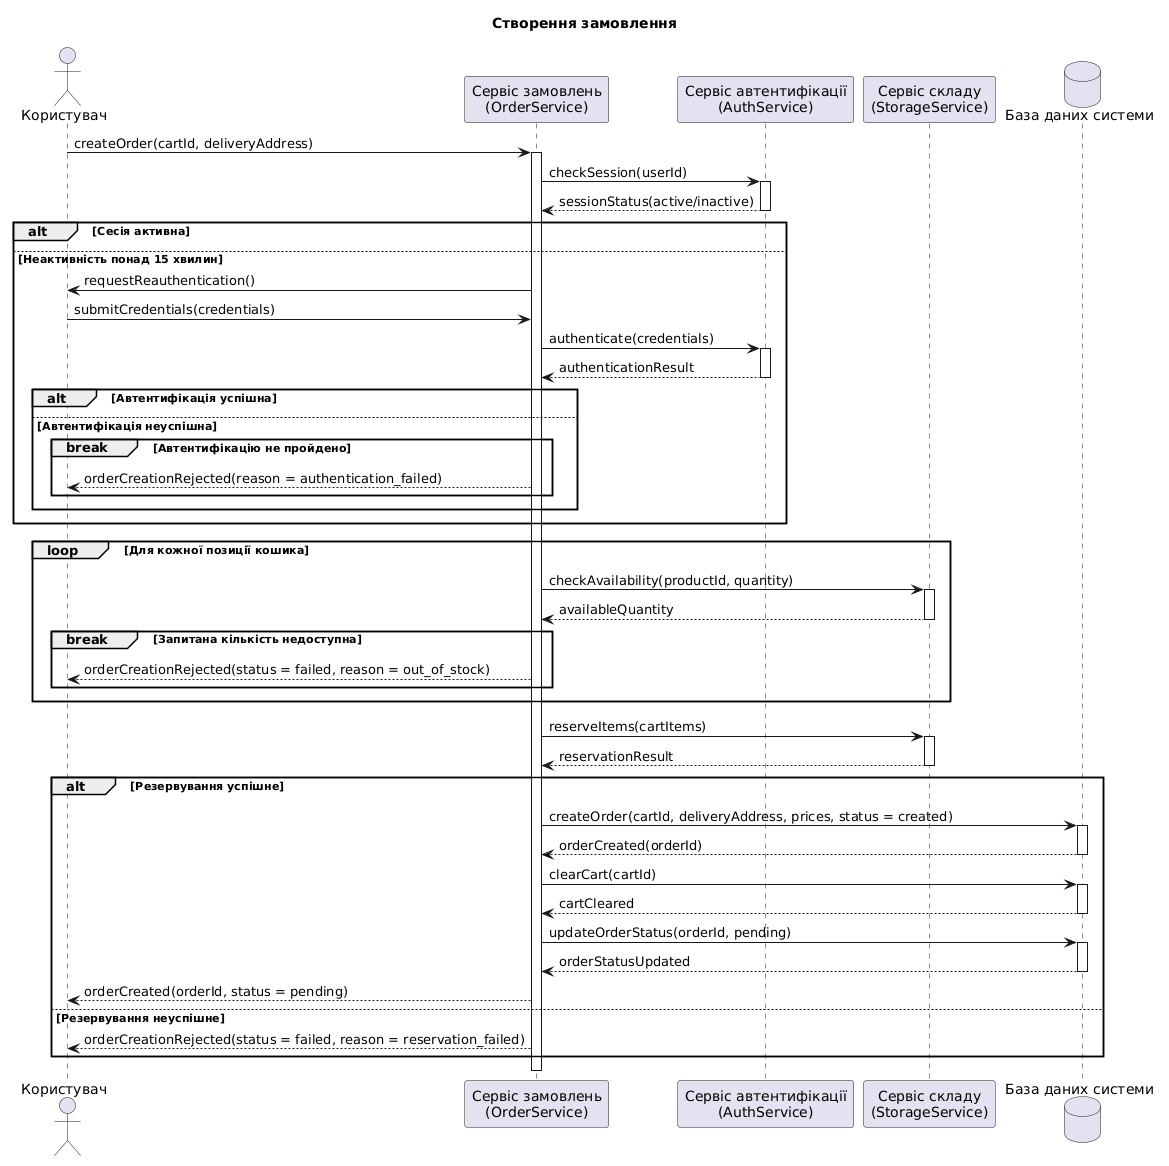
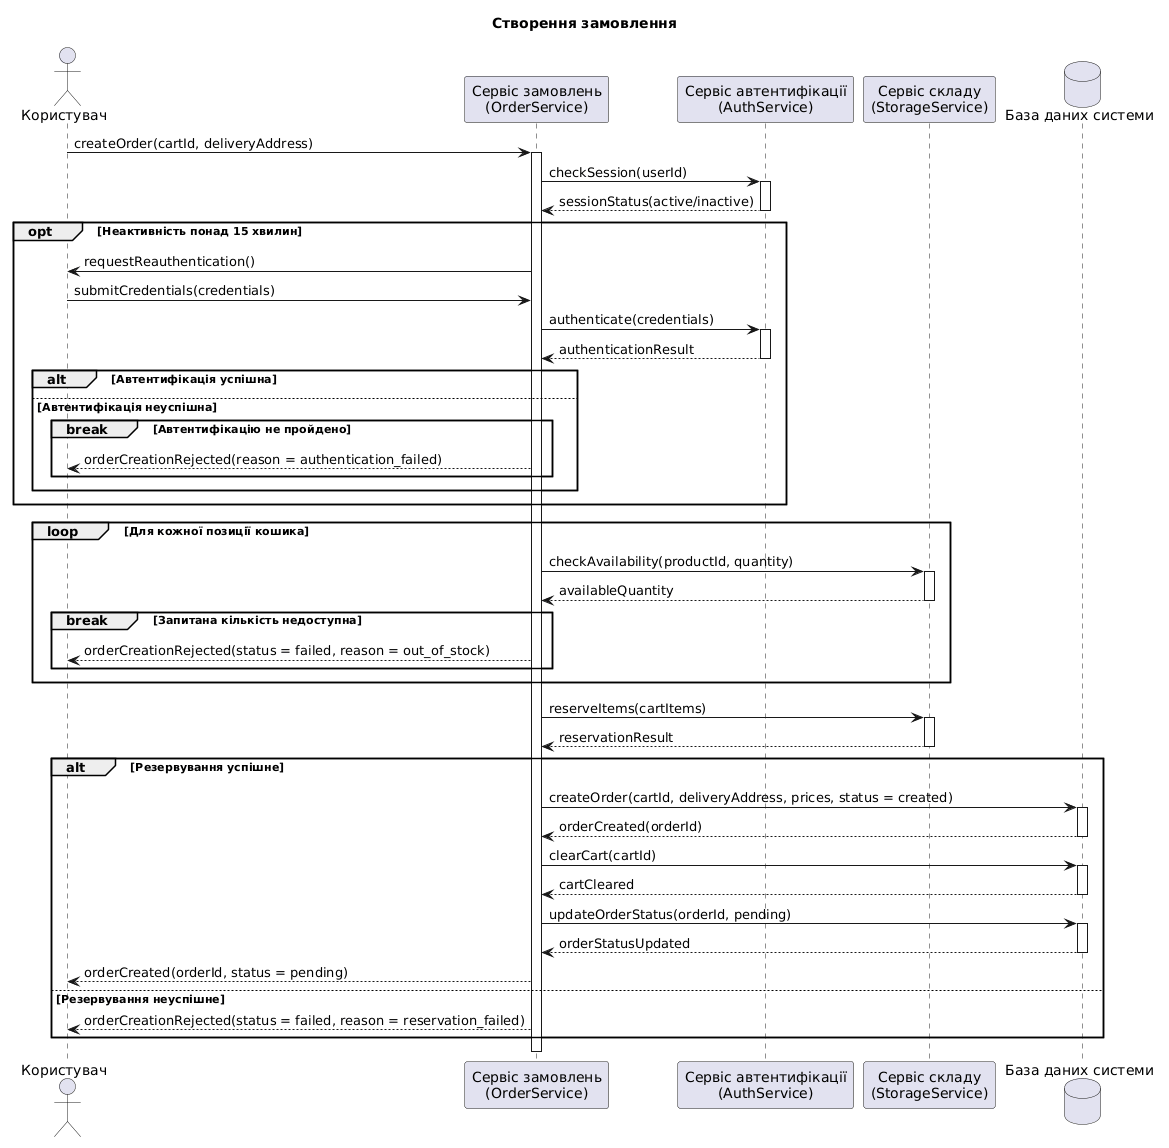
змінив блок аутентифікації з alt на opt, також написав забути adr по аутентифікації

diff --git a/lab3/specs.md b/lab3/specs.md
@@ -15,9 +15,8 @@
 Учасники: користувач - актор; сервіс замовлень(OrderService), сервіс автентифікації(AuthService), сервіс складу(StorageService), база даних системи - об'єкти 
 #### Кроки 
 1.  Користувач надсилає запит на створення замовлення, вказуючи id кошика та вдресу доставки.
-2.  OrderService звертається до AuthService для перевірки безактивності користувача.
-* Якщо сесія валідна, процес продовжується без зупинки.
-* Якщо ні, система запрошує повторну автентифікацію; якщо вона успішна - процес продовжується, якщо ні - процес повертається поверненням помилки авторизації    
+2.  Якщо користувач був відсутній більше 15 хвилин OrderService звертається до AuthService для перевірки безактивності користувача.
+* Система запрошує повторну автентифікацію; якщо вона успішна - процес продовжується, якщо ні - процес повертається поверненням помилки авторизації.    
 3. До кожного товару в кошику OrderService посилає запит до StorageService перевіряє наявність на складі.
 * Якщо залишок хоча б одного товару менший за замовлений - формується повідомлення про відсутність товару на складі, і процес оформлення повністю припиняється. 
 4. Після успішної перевірки наявності всіх позицій, OrderService ініціює резервування через StorageService.

diff --git a/lab3/decisions/0002_authentification.md b/lab3/decisions/0002_authentification.md
@@ -1,0 +1,25 @@
+# Додати автентифікацію перед оформленням 
+
+## Context and Problem Statement
+ШІ-асистент при перевірці наголосив на тому, що в вимогах прописано, що якщо користувач занадто довго був неактивний при оформленні замовлення система повинна попросити користувача знову ввести пароль, але повторної аутентифікації немає в описі sequence діаграми по створенню замовлення. 
+
+
+## Considered Options
+* Додати аутентифікацію першим блоком сценарію створення замовлення.
+* Залишити сценарій без автентифікації.
+
+
+## Pros and Cons of the Options
+
+### З аутентифікацією в сценарії
+* +, покриває функціональну вимогу.
+* +, показує повний процес оформлення замовлення, куди і входить повторна аутентифікація за умови довгою відсутності користувача.
+
+
+### Без аутентифікації 
+* +, спрощує діаграму.
+* +, робить фокус лише на найважливіших кроках.
+
+
+## Decision Outcome
+Було вирішено додати блок з аутентифікацією, так як це може бути важливим кроком при оформленні замовлення.

diff --git a/lab3/ai/prompt5.md b/lab3/ai/prompt5.md
@@ -1,0 +1,31 @@
+## Prompt
+Поміняй зовнішній блок атунтифікації з alt на opt, так як він підхить більше, бо аутентифікація відбувається лише за умови відсутності користувача більше 15 хвилин
+
+
+## AI responce
+Read 
+Completed with input: {
+  "path": "D:\\Навчання\\3 семестр\\КПІ\\KPI2\\lab3\\order_creation.md"
+}
+
+Read 
+Completed with input: {
+  "path": "D:\\Навчання\\3 семестр\\КПІ\\KPI2\\lab3\\decisions\\0002_authentification.md"
+}
+
+Ran terminal command: git status --short; git diff -- lab3/order_creation.md
+
+Edit 
+
+Ran terminal command: git diff --check -- lab3/order_creation.md; git diff -- lab3/order_creation.md
+
+Read , lines 8 to 34
+Completed with input: {
+  "path": "D:\\Навчання\\3 семестр\\КПІ\\KPI2\\lab3\\order_creation.md",
+  "view_range": [
+    8,
+    34
+  ]
+}
+
+Замінив зовнішній `alt` на `opt` з умовою «Неактивність понад 15 хвилин» у `order_creation.md`. Внутрішня альтернатива для успішної та неуспішної автентифікації залишилася. `git diff --check` пройшов без помилок.

diff --git a/lab3/order_creation.md b/lab3/order_creation.md
@@ -14,8 +14,7 @@ activate AuthService
 AuthService --> OrderService : sessionStatus(active/inactive)
 deactivate AuthService
 
-alt Сесія активна
-else Неактивність понад 15 хвилин
+opt Неактивність понад 15 хвилин
     OrderService -> User : requestReauthentication()
     User -> OrderService : submitCredentials(credentials)
     OrderService -> AuthService : authenticate(credentials)
@@ -70,4 +69,4 @@ end
 
 deactivate OrderService
 @enduml
-![alt text](image-1.png)
+![alt text](order_creation_sequence.png)

diff --git a/lab3/payment.md b/lab3/payment.md
@@ -56,4 +56,4 @@ end
 
 deactivate OrderService
 @enduml
-![alt text](image.png)
+![alt text](payment.png)
